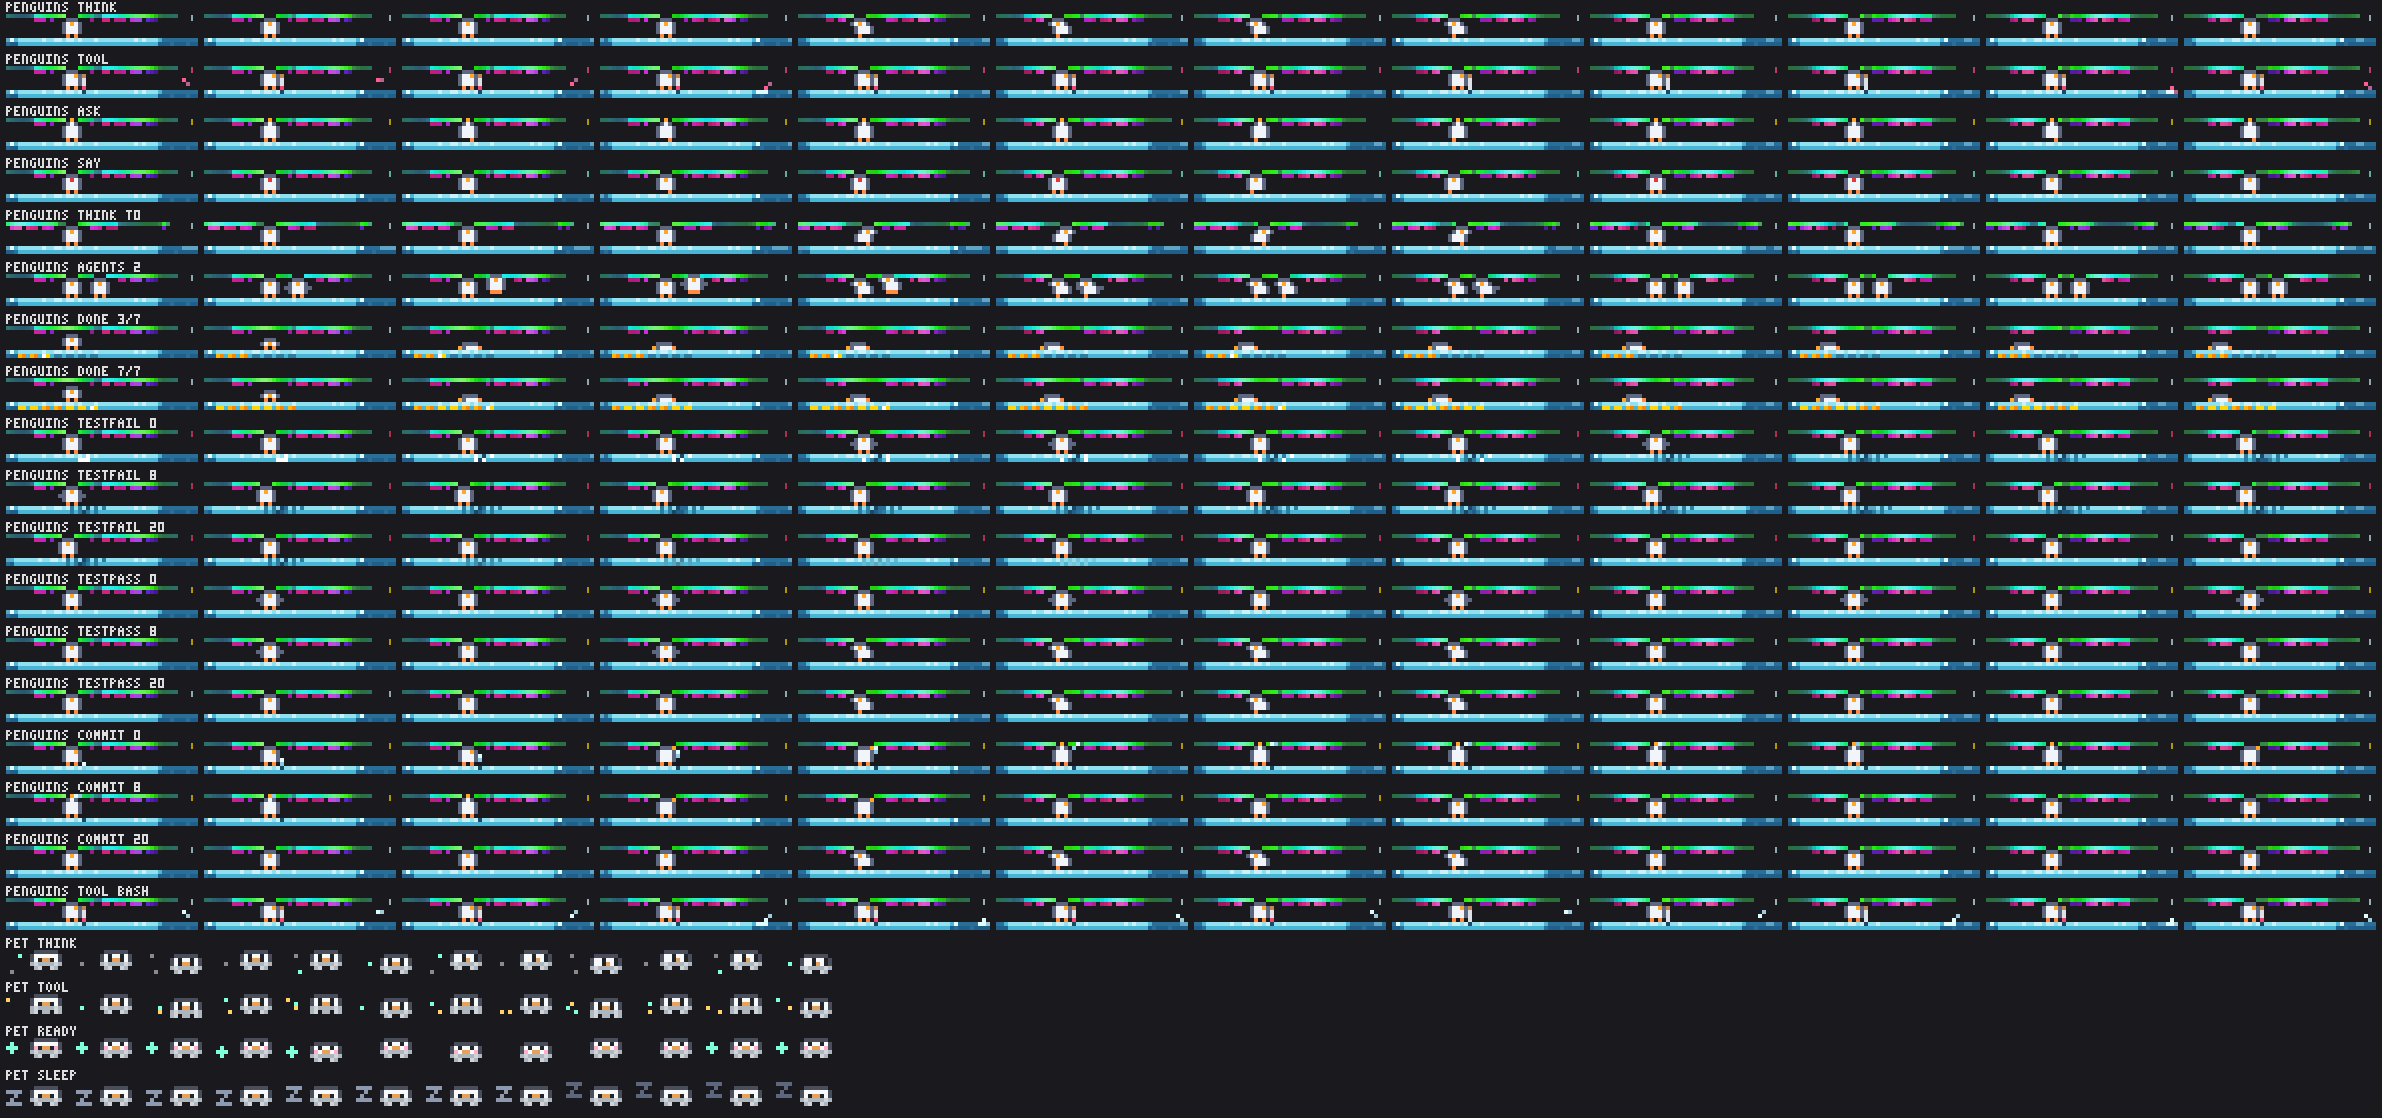
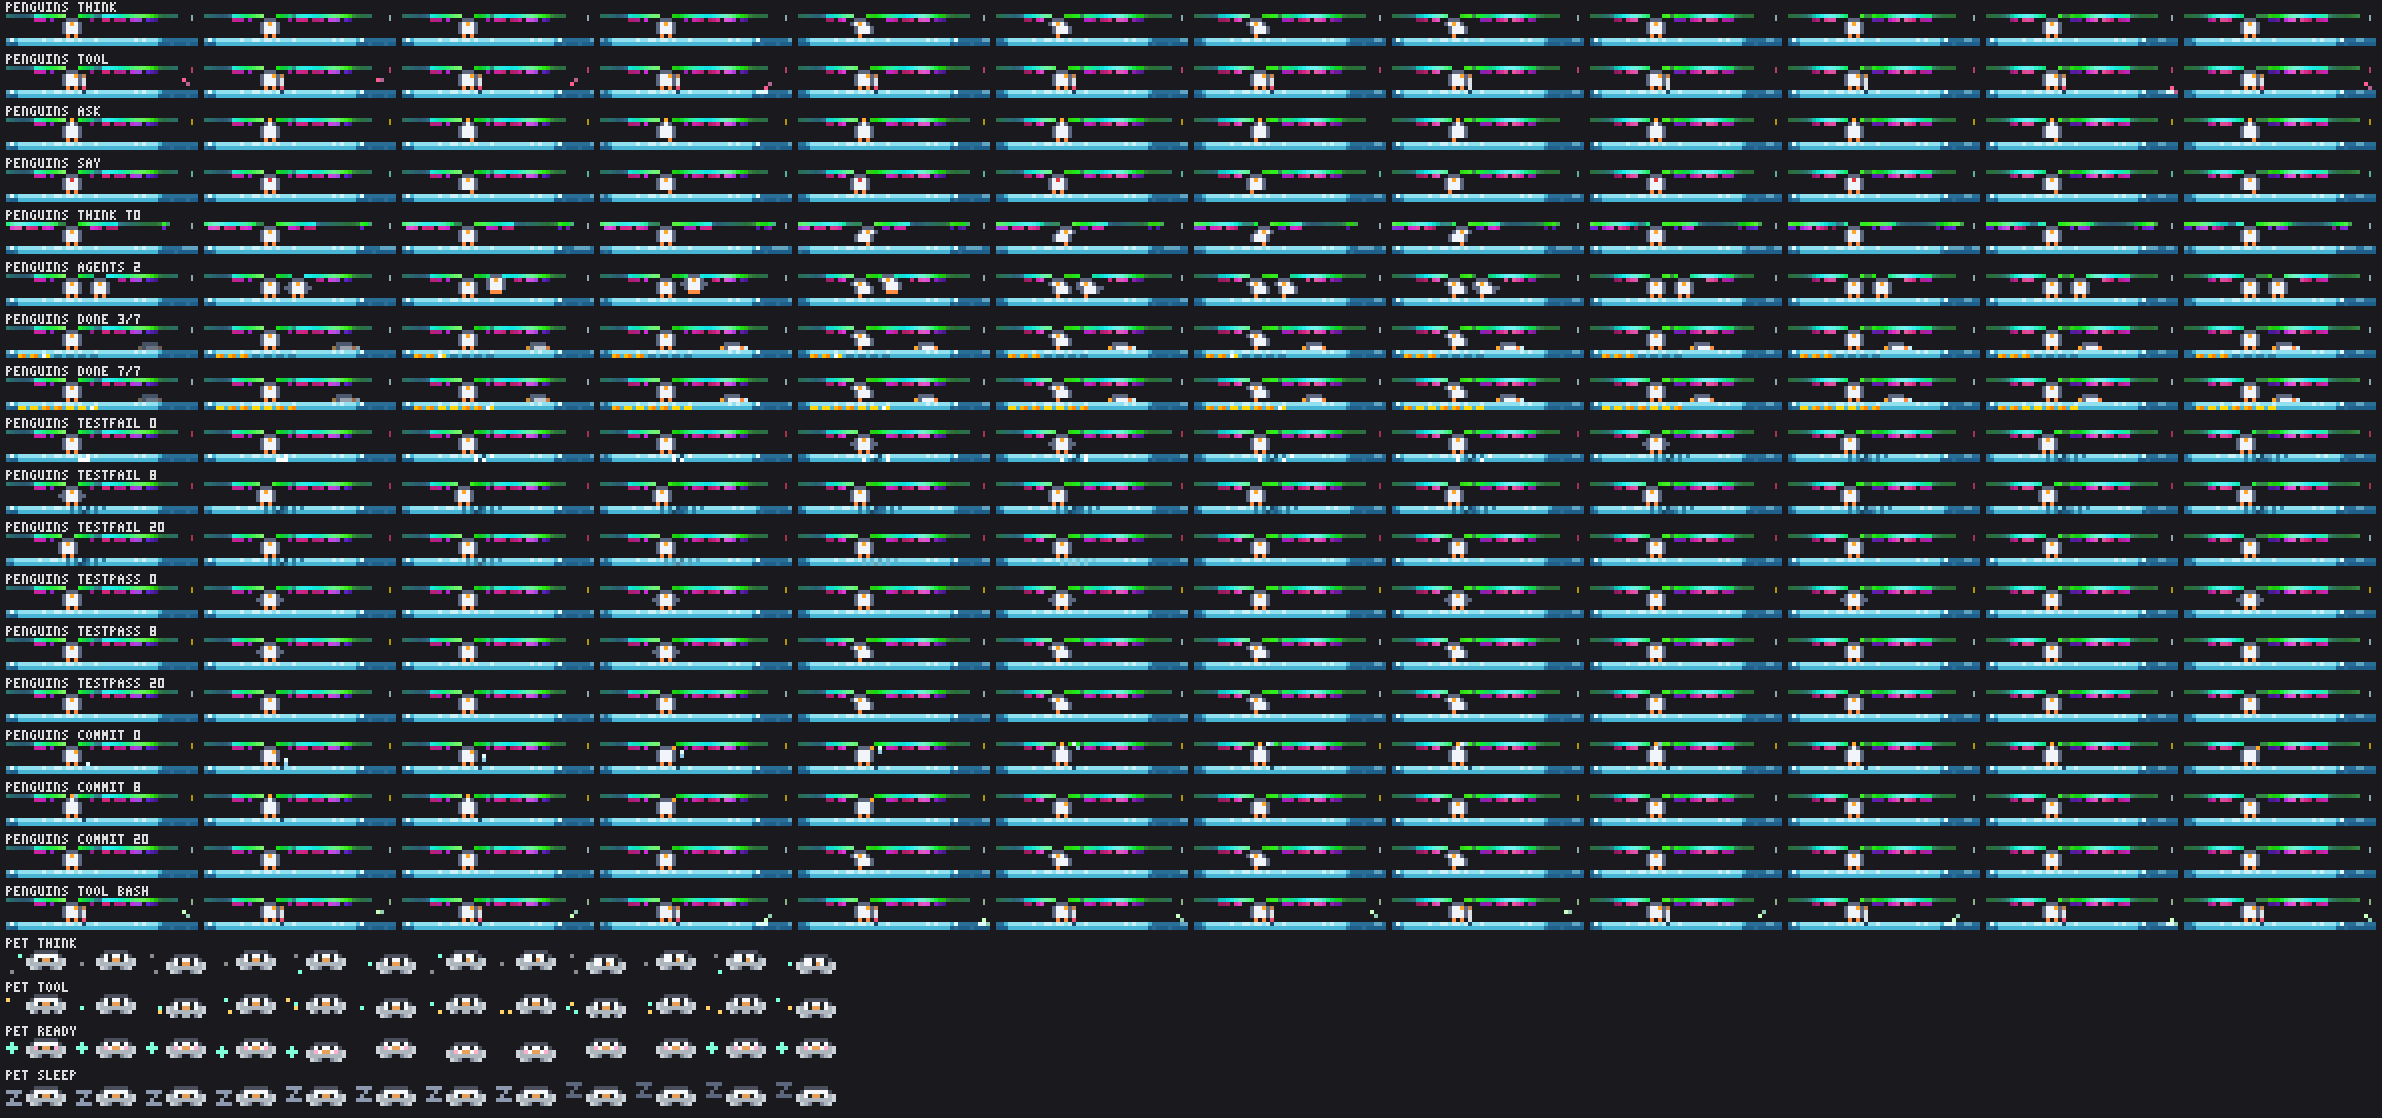
showtime: penguins review fixes — the done slide is now a transient young penguin that fades in at the floe's right end, belly-slides left a cell a frame in front of the huddle and fades out by doneAge 28 (a done mid-slide makes it vanish and a new one fade in, never a teleport); the huddle penguins

diff --git a/showtime/hooks/themes/penguins.ts b/showtime/hooks/themes/penguins.ts
@@ -1,15 +1,15 @@
 // Theme: penguins. Its scene, its words and its pet.
 //
-// The scene: penguins huddled on an ice floe (#90e0ef) in a dark sea, an aurora over them whose curtains breathe
-// a cell a frame and shimmer in colour by `t`, the sea's waves scrolling left by `t` alone. A penguin per agent
-// (four at most, the host when none) in a fixed slot, shuffling on eight frames, the newest flapping and hopping
-// as it joins. think: they waddle in unison; ask: every head turns up over four frames; tool: each drops a line
-// into a hole by its side and a fish in the tool's colour leaps a six-frame arc in from the right edge (twice a
-// cycle on bash). A done task: the newest penguin belly-slides out of its slot and waddles back (4 + 3 cells
-// frames); a fish on the floe's face per task, floor-scaled. testFail cracks the floe between the first two
-// slots, the halves drifting a pixel apart and back; testPass flaps every flipper; a commit pulls a fish from the
-// host's hole, tosses it up and gulps it. Motion rules: floe and sea fill the bottom cell row, the aurora keeps
-// to the top one with fixed starts, the leaping fish starts at the edge and the sign sits in the corner.
+// The scene: penguins huddled on an ice floe (#90e0ef) in a dark sea under an aurora arc whose far end breathes a
+// cell a frame and whose curtains shimmer by `t`, the sea's waves scrolling left by `t` alone. A penguin per agent
+// (four at most, the host when none) in a fixed slot it never leaves, shuffling on eight frames, the newest
+// flapping and hopping as it joins. think: they waddle; ask: every head turns up over four frames; tool: each
+// fishes a line into a hole by its side, a fish in the tool's colour leaping a six-frame arc in from the right edge
+// (twice a cycle on bash). A done task: a young penguin fades in at the floe's end and belly-slides across in
+// front of the huddle; a fish on the floe's face per task. testFail cracks the floe between the first two slots,
+// its halves drifting a pixel apart and back; testPass flaps every flipper; commit: a fish comes up beside the
+// host's line and over into its beak. Motion rules: floe and sea fill the bottom cell row, the aurora the top
+// one; the leap starts at the edge, the slider only moves left, the sign sits in a corner.
 import { canvas, cells, draw, frame, hsl, mod, noise, plot, put } from '../cells'
 import type { Canvas, Grid } from '../cells'
 import { SCENE_ROWS } from '../draw'
@@ -17,30 +17,33 @@ import type { PetArt } from '../pets'
 import type { Signals, Theme, ToolKind } from '../themes'
 
 /** A penguin's pose: its head's turn (front, side, tilted, up), lean, feet, flippers out, beak open, hop. */
-type Pose = { head: number; lean: number; feet: number; flap: boolean; open: boolean; y: number; sink: number }
+type Pose = { head: number; lean: number; feet: number; flap: boolean; open: boolean; y: number }
 /** The crack's line and hairlines' inks, how far the hairlines reach, whether their tips still glint. */
 type Crack = { line: string; hair: string; reach: number; tip: boolean }
 type Layout = { water: number; f0: number; f1: number; c: number; n: number }
 
 /** The penguin, 5 wide, 5 tall from pixel row PEN_Y: head and face by the head's turn, belly, feet (both, one up,
- * tucked in a hop); a pixel shorter per `sink` as it gets down to slide. Looking up, its beak sticks up a pixel. */
+ * tucked in a hop). Looking up, its beak sticks up a pixel over its head. */
 const HEADS = [['.KKK.', 'KWBWK'], ['.KKK.', 'KWWBK'], ['.KKKB', 'KWWWK'], ['.KWK.', 'KWWWK']]
 const BELLY = 'KWWWK'
 const FEET = ['.O.O.', '...O.', '.O...', '.OOO.']
-/** Lying on its belly, facing left from its standing column: its back over beak, head, belly and feet. */
+/** The slider, a young penguin on its belly facing left: its back over beak, head, belly and feet. */
 const SLIDE = ['.KKKK.', 'BKWWWO']
 const PEN_Y = 1
 const FLOE_Y = 6
-/** Slots from the huddle's centre: the host's, then right, left, right; the side each shuffles and slides to. */
+/** Slots from the huddle's centre: the host's, then right, left, right; the side each shuffles to. */
 const SLOT_DX = [-6, 1, -13, 8]
 const [SIDE, MAX_FISH] = [[-1, 1, -1, 1], 12]
-/** Frames: an act's change, a greeting, a done fish's sparkle, the 100% twinkle; the slide's most cells. */
-const [CHANGE, GREET, SPARKLE, ALL_DONE, SLIDE_MAX] = [4, 8, 8, 16, 8]
-/** A leap's frames and head rows; testPass; the commit: the toss from the host's hole to its beak, then gulped. */
+/** Frames: an act's change, a greeting, a done fish's sparkle, the 100% twinkle. */
+const [CHANGE, GREET, SPARKLE, ALL_DONE] = [4, 8, 8, 16]
+/** The slider: its most cells, a cell a frame; its fades in and out; gone at doneAge SLIDE_END. */
+const [SLIDE_RUN, SLIDE_FADE, SLIDE_END] = [22, 4, 28]
+/** A leap's frames and head rows; testPass; the commit: the toss from the host's hole, up beside its rod's line
+ * and over into its beak, then gulped. */
 const [LEAP, PASS, COMMIT] = [6, 12, 16]
 const LEAP_Y = [5, 4, 3, 3, 4, 5]
-const TOSS = [[5, 5], [5, 4], [5, 3], [5, 2], [5, 1], [6, 0], [5, 0], [4, 0], [3, 0]] as const
-/** The host's head through the commit: watching the hole, tilting up, beak up for the catch, and back down. */
+const TOSS = [[6, 5], [6, 4], [6, 3], [6, 2], [6, 1], [5, 0], [4, 0], [3, 0]] as const
+/** The host's head through the commit: watching the fish, tilting up, beak up for the catch, and back down. */
 const TOSS_HEAD = [1, 1, 1, 2, 2, 3, 3, 3, 3, 3, 3, 2, 2, 1, 1, 0]
 /** testFail: the crack runs (0-7), the left half drifts off (9-20), the right (11-18), the crack fades (22-25). */
 const [LEFT_FROM, LEFT_TO, RIGHT_FROM, RIGHT_TO, FADE_FROM, FAIL] = [9, 21, 11, 19, 22, 30]
@@ -51,11 +54,12 @@ const [FLOE, SNOW, FACE, CRACK, HAIR] = ['#90e0ef', '#caf0f8', '#48b5d4', '#1b49
 const [SEA, CREST, DEEP, FOAM, ROD, LINE] = ['#2a6f97', '#61a5c2', '#1f5f8b', '#e0fbfc', '#c08552', '#dee2e6']
 const [BOBBER, HOLE] = [RED, CRACK]
 const [FISH, FISH_TAIL, NOTCH, SILVER, FIN] = ['#ffb703', '#fb8500', '#2c7da0', '#e0fbfc', '#8ecae6']
-const TOOL_INK: Record<ToolKind, string> = { bash: '#e0fbfc', edit: '#ff9e64', read: '#e0af68', search: '#7dcfff',
+const TOOL_INK: Record<ToolKind, string> = { bash: '#caffbf', edit: '#ff9e64', read: '#e0af68', search: '#7dcfff',
   agent: '#bb9af7', web: '#7aa2f7', other: '#ff5d8f' }
 const TOOL_SIGN: Record<ToolKind, string> = { bash: '$', edit: '✎', read: '¶', search: '⌕', agent: 'ᗣ', web: '◎',
   other: '✦' }
 const PALETTE = [FLOE, '#80ffdb', INK.B, '#c77dff']
+const DIM = '#3d4a5c'
 
 /** `a` blended toward `b` by `k` (0..1). */
 function mix(a: string, b: string, k: number): string {
@@ -75,10 +79,9 @@ function layout(w: number): Layout {
   return { water, f0, f1, c, n: Math.max(1, n) }
 }
 
-/** The aurora along the top cell row: one faint arc across the sky, its right end breathing a cell a frame (so no
- * frame holds) short of the sign, covering the penguins' heads so they never part from it; brighter curtains
- * drift along it, green above rose-violet folds (none just round a penguin's head), hues and glow shimmering by
- * `t` (colour only). */
+/** The aurora along the top cell row: one faint arc across the sky, covering the penguins' heads so they never
+ * part from it, its right end breathing a cell a frame (so no frame holds) short of the sign. Brighter curtains
+ * drift along it, green over rose-violet folds; the folds stop short of each head. Hue and glow shimmer by `t`. */
 function aurora(cv: Canvas, t: number, clear: (x: number) => boolean): void {
   const end = cv.w - 5 - Math.abs(mod(t, 6) - 3)
   for (let x = 0; x <= end; x++) {
@@ -125,14 +128,14 @@ function floe(cv: Canvas, L: Layout, dl: number, dr: number, crack?: Crack): voi
 /** A penguin at (x, PEN_Y + hop): head and face by its turn and lean, belly, feet; flippers out, beak up. */
 function penguin(cv: Canvas, x: number, p: Pose): void {
   const ink = { ...INK, B: p.open ? OPEN : INK.B }
-  const y = PEN_Y + p.y + p.sink
+  const y = PEN_Y + p.y
   // The sky over its head is cleared of the aurora so the head stands out (the head fills that cell either way).
   for (let c = x + p.lean; y === 1 && c < x + p.lean + 5; c++) {
     if (c >= 0 && c < cv.w && HEADS[p.head]![0]![c - x - p.lean] !== '.') cv.px[c] = undefined
   }
   draw(cv, x + p.lean, y, HEADS[p.head]!, ink)
   if (p.head === 3) plot(cv, x + 2 + p.lean, y - 1, INK.B)
-  draw(cv, x, y + 2, [...Array<string>(2 - p.sink).fill(BELLY), FEET[p.y < 0 ? 3 : p.feet]!], ink)
+  draw(cv, x, y + 2, [BELLY, BELLY, FEET[p.y < 0 ? 3 : p.feet]!], ink)
   if (p.flap) for (const dx of [-1, 5]) plot(cv, x + dx, y + 2, INK.K)
 }
 
@@ -146,15 +149,17 @@ function rod(cv: Canvas, x: number, stage: number, t: number): void {
   if (stage >= 4) plot(cv, at, PEN_Y + 4, mod(t + 5 * x, 12) < 9 ? BOBBER : LINE)
 }
 
-/** The slide after a done task, `a` frames in, `d` cells out: get down a pixel a frame, slide a cell a frame, rest,
- * get up the same way and waddle back a cell every other frame; home at 5 + 3d frames (29 at most). */
-function slideAt(a: number, d: number): { p: number; sink: number; lying: boolean; step: number } | undefined {
-  if (a < 2) return { p: 0, sink: a + 1, lying: false, step: 0 }
-  if (a <= d + 3) return { p: Math.min(a - 2, d), sink: 2, lying: true, step: 0 }
-  if (a <= d + 5) return { p: d, sink: d + 6 - a, lying: false, step: 0 }
-  const back = a - (d + 6)
-  if (back >= 2 * d) return undefined
-  return { p: d - ((back + 1) >> 1), sink: 0, lying: false, step: 1 + ((back >> 1) % 2) }
+/** The slider after a done task, `a` frames in: a young penguin on its belly in front of the huddle, fading in at
+ * the floe's right end, sliding left a cell a frame (snow spraying behind it) and fading out by SLIDE_END. It is no
+ * huddle penguin, so a done that lands mid-slide only makes it vanish and a new one fade in at the start. */
+function slider(cv: Canvas, L: Layout, a: number): void {
+  if (a >= SLIDE_END) return
+  const d = Math.max(0, Math.min(SLIDE_RUN, L.f1 - L.f0 - 7))
+  const x = L.f1 - 5 - Math.min(a, d)
+  const k = Math.min(1, (a + 1) / SLIDE_FADE, (SLIDE_END - a) / SLIDE_FADE)
+  const ink = Object.fromEntries(Object.entries(INK).map(([key, c]) => [key, mix(DIM, c, k)]))
+  draw(cv, x, PEN_Y + 3, SLIDE, ink)
+  if (a > 0 && a <= d && mod(a, 2) === 1) plot(cv, x + 6, PEN_Y + 4, mix(DIM, SNOW, k))
 }
 
 /** The sign in the top-right corner: the news first, else the act, a dot while the act changes. */
@@ -203,15 +208,14 @@ export function penguinsScene(t: number, w: number, s: Signals): Grid {
     plot(cv, x + 1, 7, k >= lit ? NOTCH : fresh || twinkle ? GOLD : FISH_TAIL)
   }
 
-  // Layer 3: the penguins. Act motion holds still while the act changes and through any reaction.
-  const reacting = isFail || isPass || isCommit
-  const still = s.actAge < CHANGE || reacting
-  const slider = s.done > 0 ? n - 1 : -1
+  // Layer 3: the penguins, never leaving their slots, their rods kept through every reaction; the slider in front.
+  // Act motion holds still while the act changes and through any reaction.
+  const still = s.actAge < CHANGE || isFail || isPass || isCommit
   for (let i = 0; i < n; i++) {
     const side = SIDE[i]!
     const home = L.c + SLOT_DX[i]! + (side < 0 ? -dl : dr)
     const ph = mod(t + 3 * i, 8)
-    const pose: Pose = { head: 0, lean: 0, feet: 0, flap: false, open: false, y: 0, sink: 0 }
+    const pose: Pose = { head: 0, lean: 0, feet: 0, flap: false, open: false, y: 0 }
     let off = 0
     if (s.act === 'think') {
       if (!still) pose.lean = frame([0, 1, 0, -1], t >> 2)
@@ -233,19 +237,10 @@ export function penguinsScene(t: number, w: number, s: Signals): Grid {
     if (isFail && a >= 2 && a < LEFT_FROM) pose.flap = mod(a + i, 4) < 2
     if (i === 0 && isCommit) pose.head = TOSS_HEAD[a]!
     if (pose.head === 3) pose.y = 0   // no hop while looking up: the beak keeps to the top pixel row
-    // The slide: the newest penguin, out to its side as far as the floe allows, eight cells at most.
-    const room = side < 0 ? home - (L.f0 - dl) : L.f1 + dr - (home + 5)
-    const sl = i === slider ? slideAt(s.doneAge, Math.max(0, Math.min(SLIDE_MAX, room))) : undefined
-    if (sl) {
-      const x = home + side * sl.p
-      const lying = side < 0 ? SLIDE : SLIDE.map(r => [...r].reverse().join(''))
-      if (sl.lying) draw(cv, x, PEN_Y + 3, lying, INK)
-      else penguin(cv, x, { ...pose, head: 0, lean: 0, feet: sl.step, flap: false, y: 0, sink: sl.sink })
-      continue
-    }
-    if (s.act === 'tool' && !(i === 0 && isCommit)) rod(cv, home, Math.min(4, s.actAge), t)
+    if (s.act === 'tool') rod(cv, home, Math.min(4, s.actAge), t)
     penguin(cv, home + (still ? 0 : off), pose)
   }
+  if (s.done > 0) slider(cv, L, s.doneAge)
 
   // Layer 4: the fish. In a tool, a leap in from the right edge every twelve frames, every six on bash (an extra
   // leap shows only if bash was already running as it began); its tail the leap's last pixel; splashes.
@@ -259,12 +254,12 @@ export function penguinsScene(t: number, w: number, s: Signals): Grid {
     }
   }
   if (isCommit) {
-    // Pulled from the host's hole, up past its head and down into its beak, its tail the path's last pixel.
+    // Out of the host's hole, up beside its rod's line, over its head and into its beak, its tail the last pixel.
     const P = L.c + SLOT_DX[0]!
     if (a <= 10) plot(cv, P + 5, FLOE_Y, HOLE)
     if (a < TOSS.length) {
       const [hx, hy] = TOSS[a]!
-      const [tx, ty] = a > 0 ? TOSS[a - 1]! : ([5, 6] as const)
+      const [tx, ty] = a > 0 ? TOSS[a - 1]! : ([5, FLOE_Y] as const)
       plot(cv, P + tx, ty, FIN)
       plot(cv, P + hx, hy, SILVER)
     } else if (a === TOSS.length) plot(cv, P + 3, 0, FIN)
@@ -279,9 +274,9 @@ export function penguinsScene(t: number, w: number, s: Signals): Grid {
 /** An emperor chick: a dark cap down the sides of a white face, two eyes and a small dark beak between them, a
  * fluffy grey body with lighter tufts, dark feet. */
 export const PET: PetArt = {
-  body: ['...KKKKKK...', '..KWWWWWWK..', '..KWWBBWWK..', '..GFGGGGFG..', '...GF..FG...'],
-  step: ['...KKKKKK...', '..KWWWWWWK..', '..KWWBBWWK..', '..GFGGGGFG..', '..GF.GG.FG..'],
-  colors: { K: '#4a4e5a', W: '#f8f9fa', B: '#e9a15a', G: '#adb5bd', F: '#ced4da' },
+  body: ['...KKKKKK...', '..KWWWWWWK..', '.FGWWBBWWGF.', '.FGGGGGGGGF.', '..FGD..DGF..'],
+  step: ['...KKKKKK...', '..KWWWWWWK..', '.FGWWBBWWGF.', '.FGGGGGGGGF.', '..FD.GG.DF..'],
+  colors: { K: '#4a4e5a', W: '#f8f9fa', B: '#e9a15a', G: '#adb5bd', F: '#ced4da', D: '#7d8597' },
   eyes: [4, 7],
   eyeRow: 1,
   eye: '#212529',
